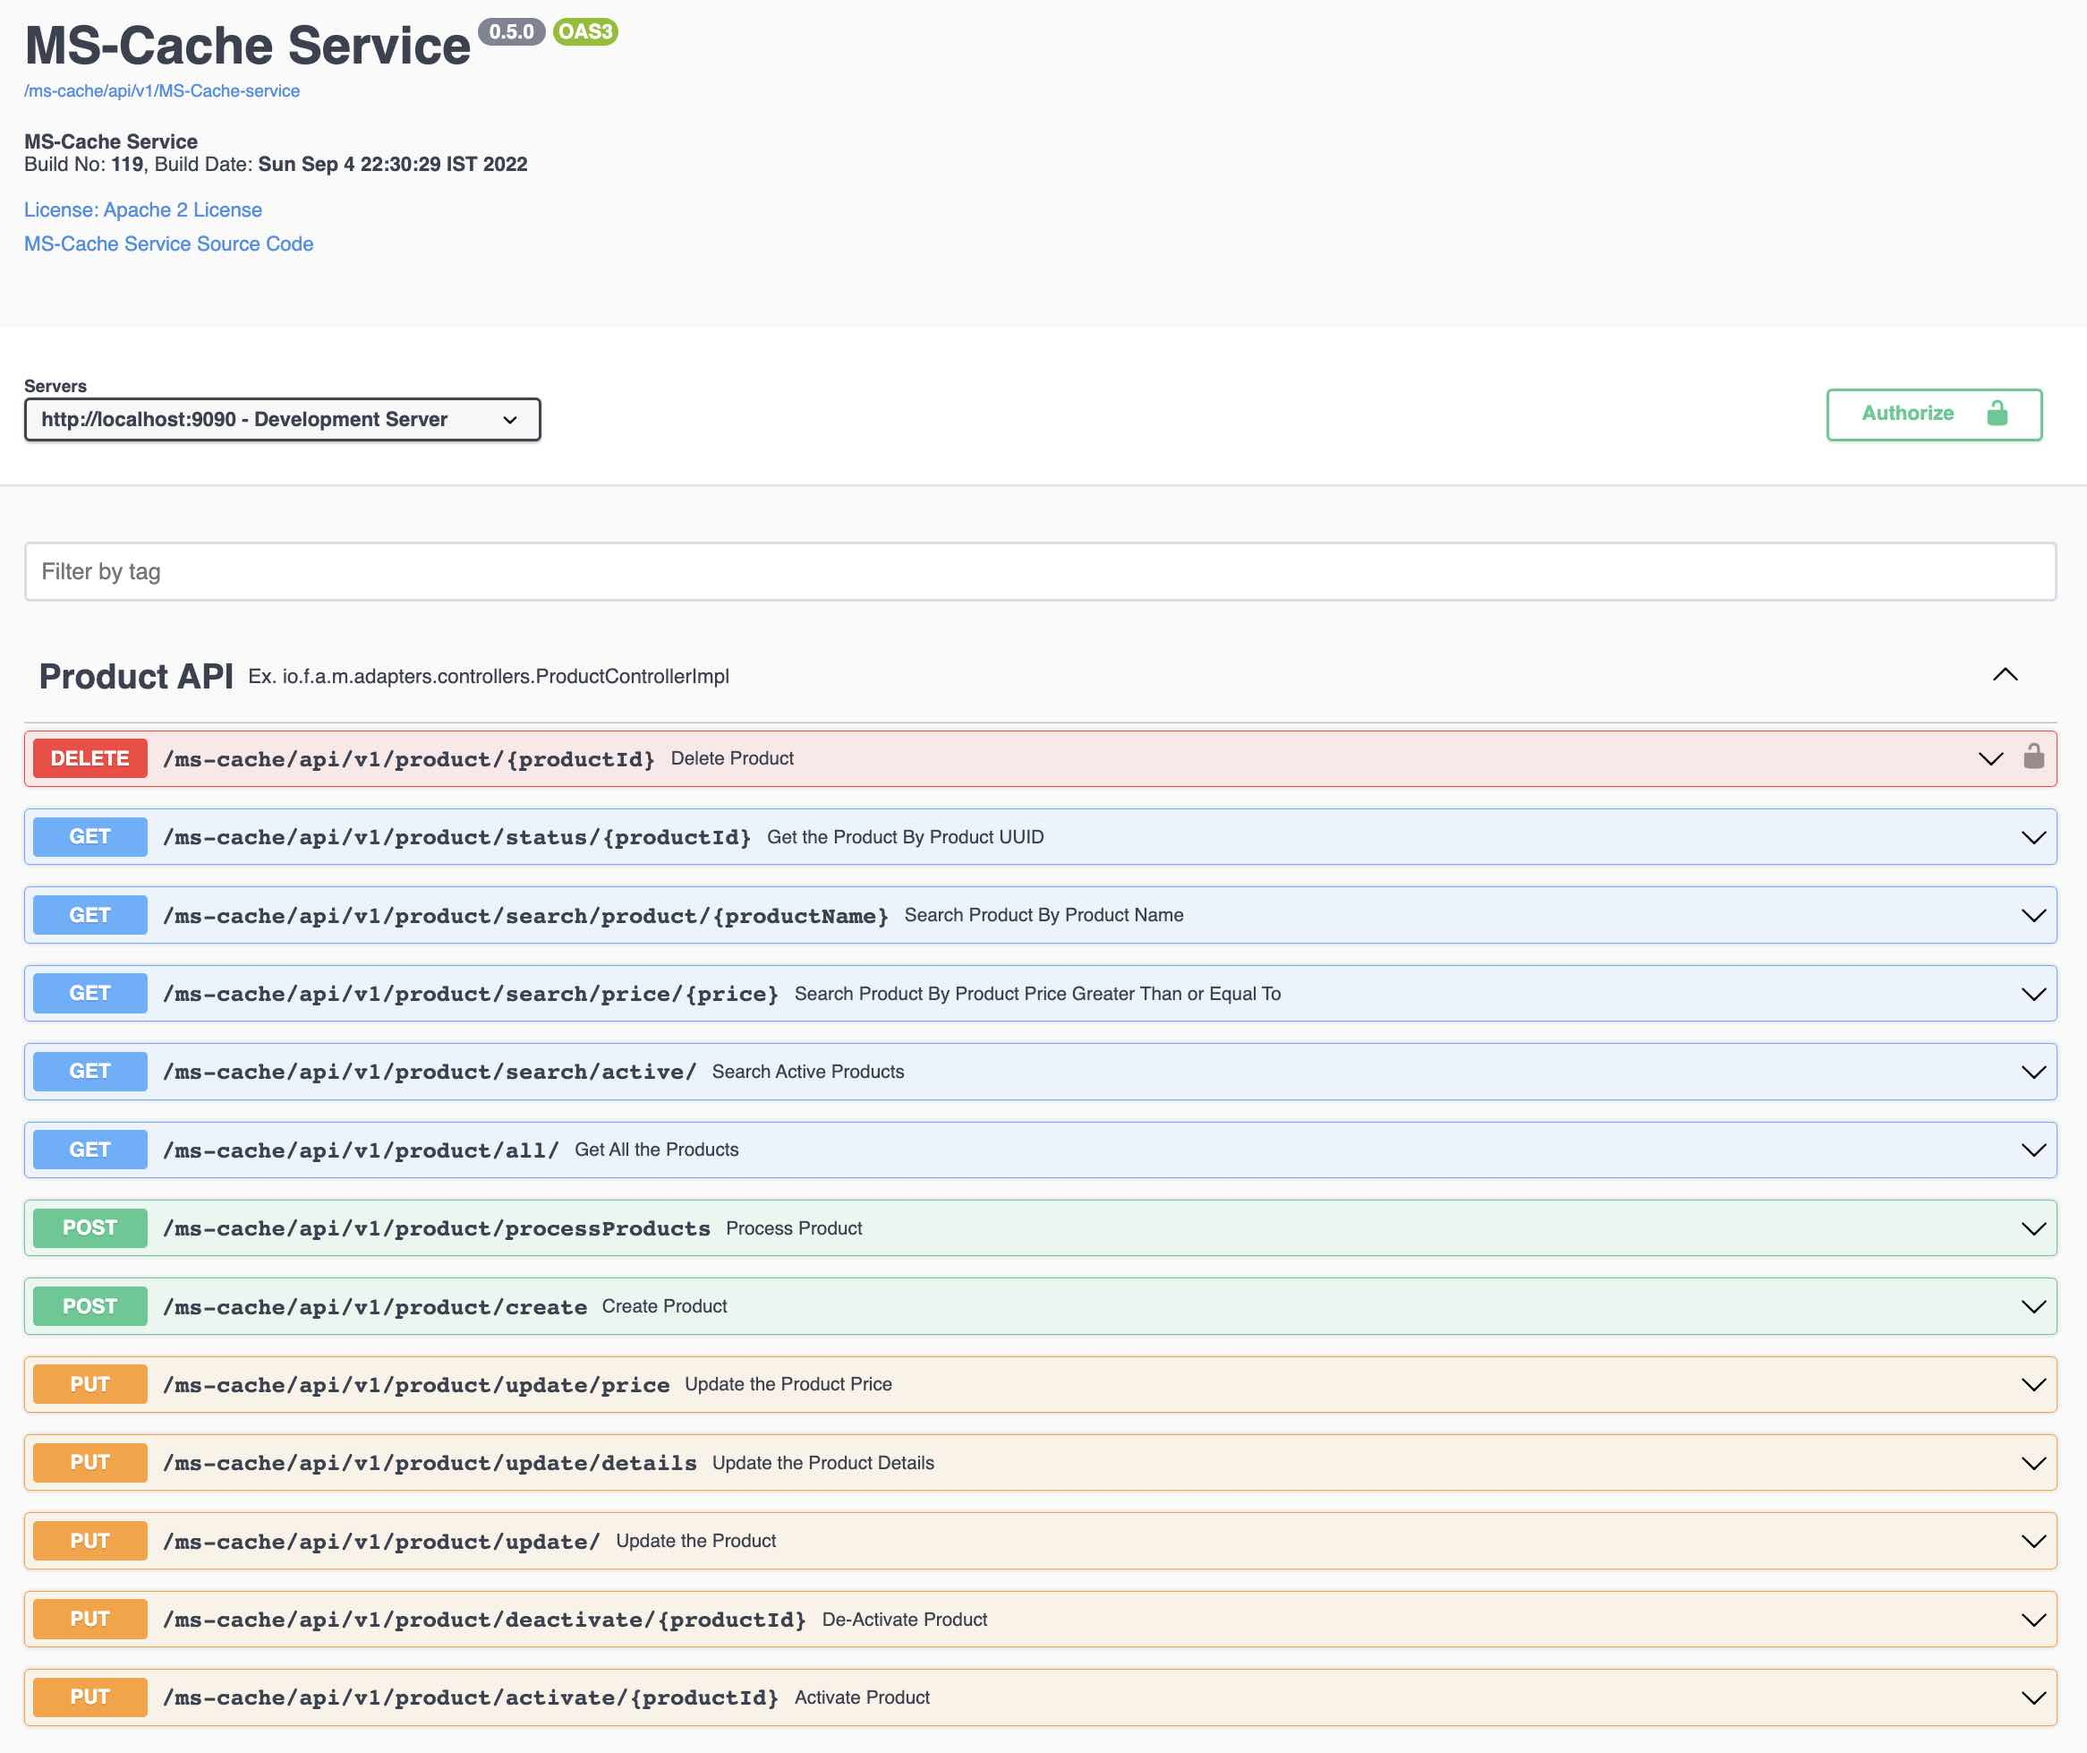
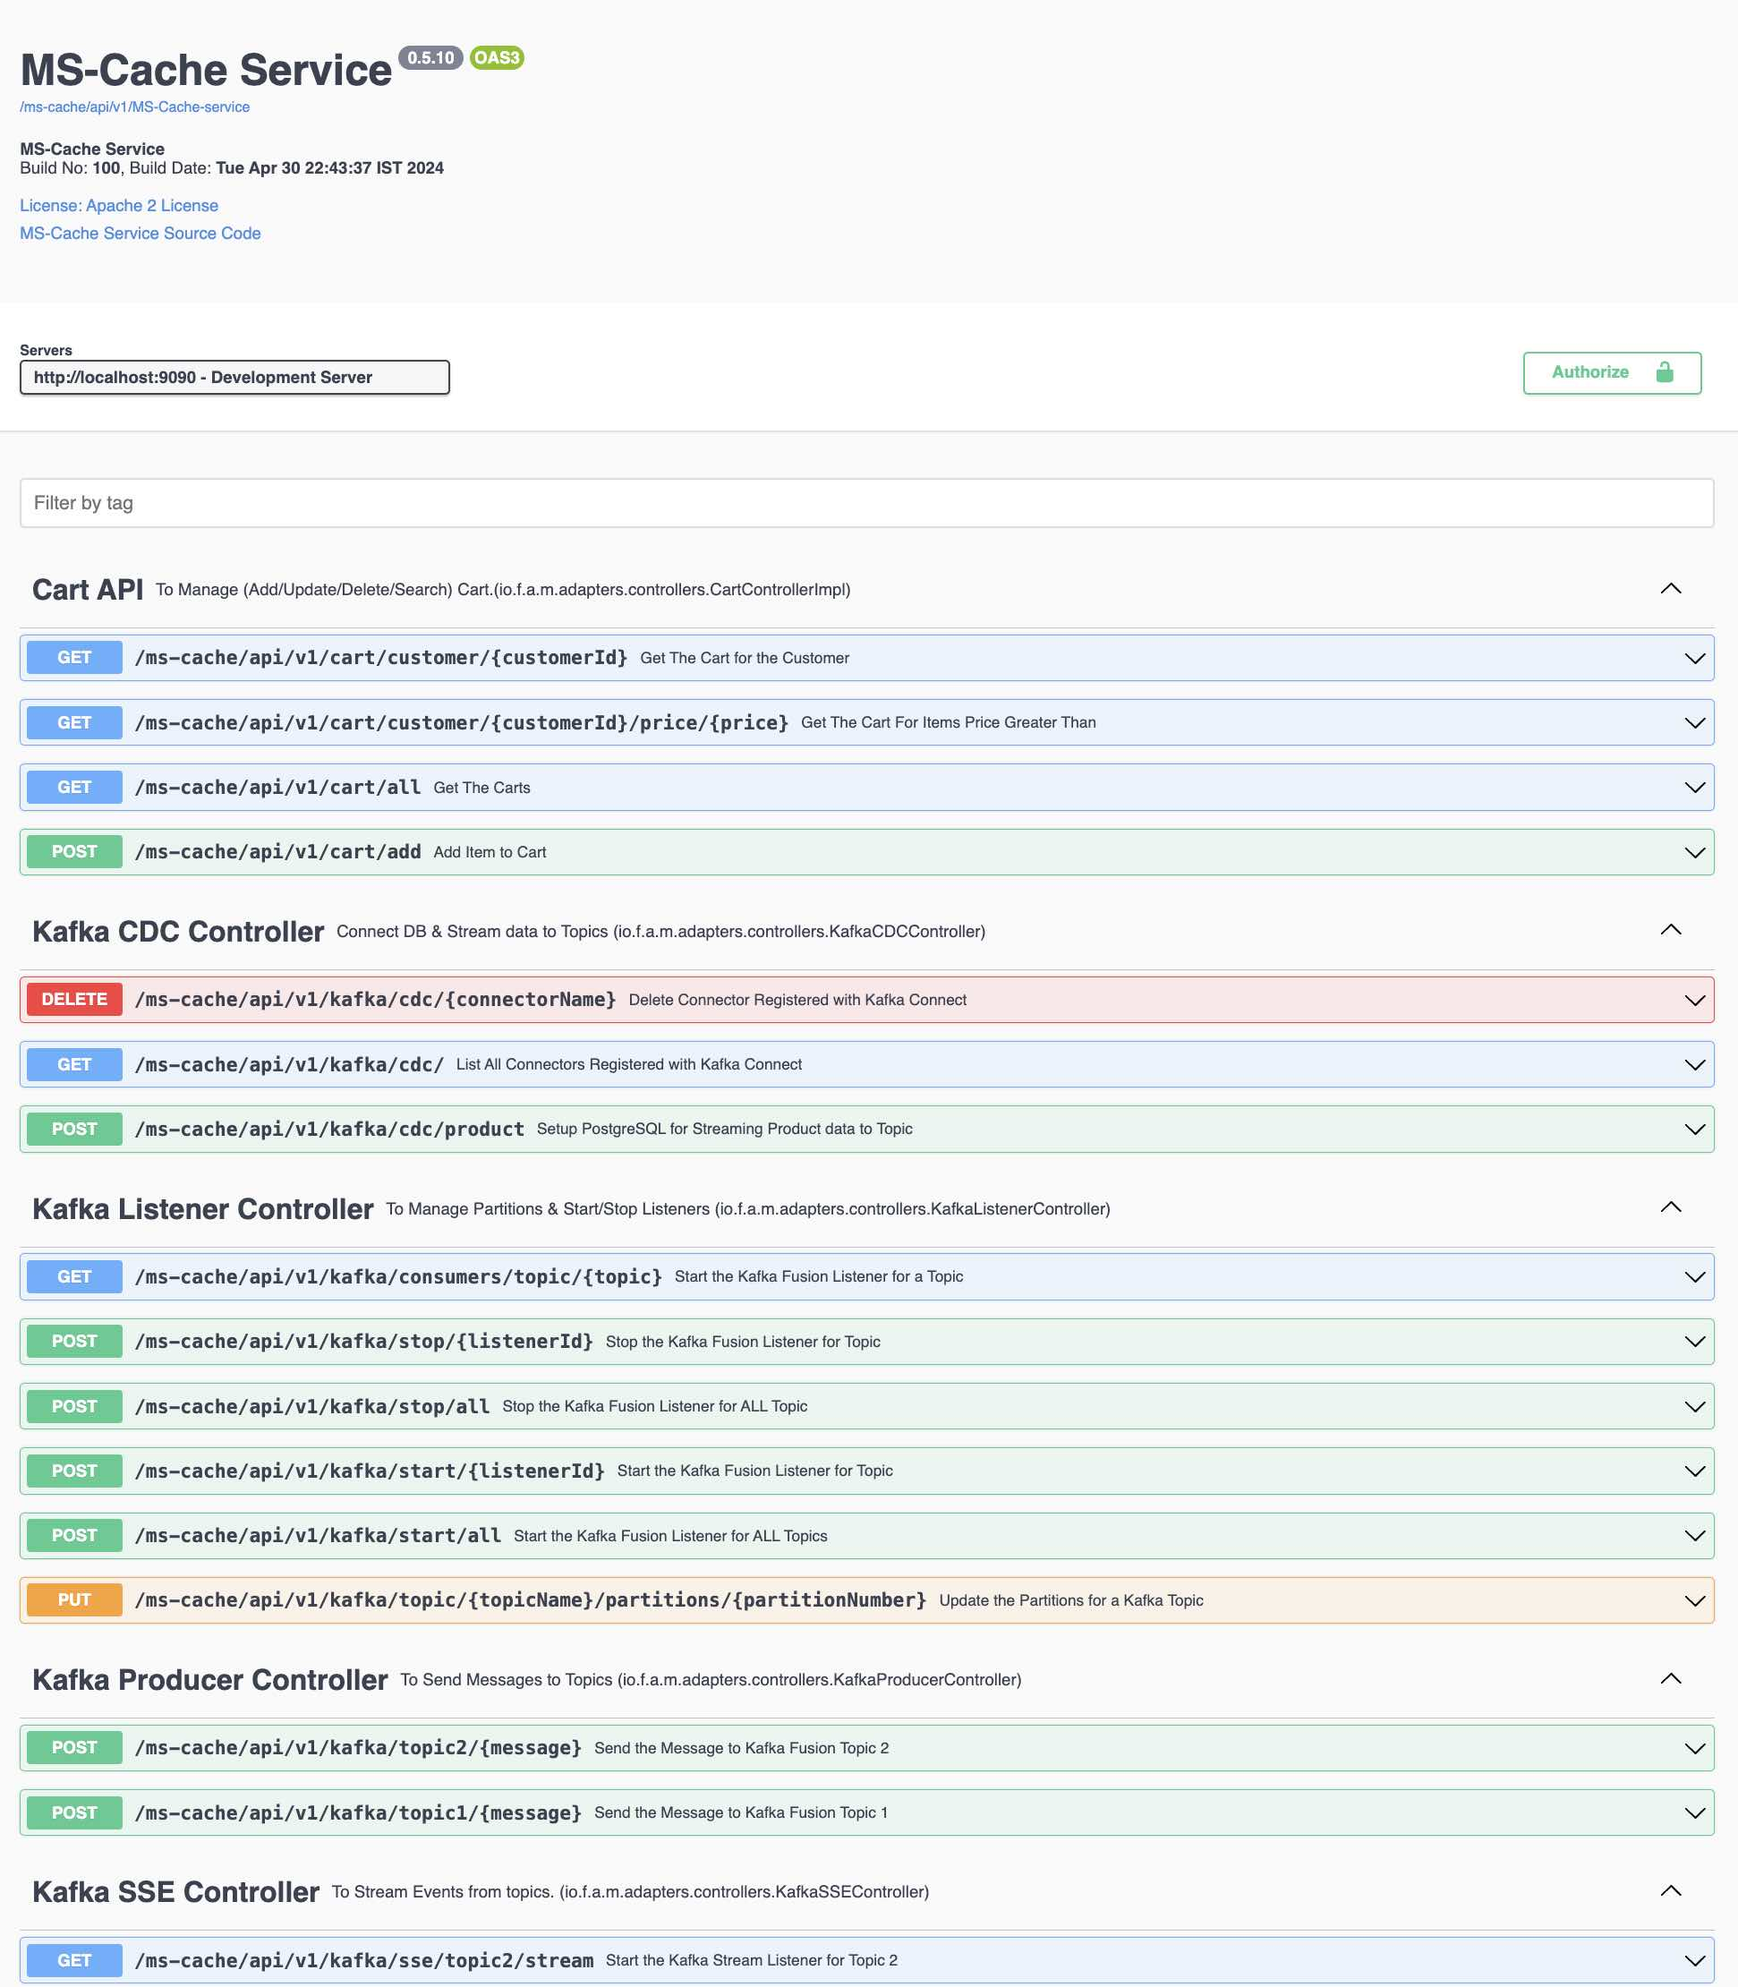
updated Kafka Examples

Changed region(s): [[0.0, 0.0, 0.9887, 1.0], [0.8651, 0.1558, 0.9887, 0.2492]]

diff --git a/src/main/java/io/fusion/air/microservice/adapters/controllers/CountryControllerImpl.java b/src/main/java/io/fusion/air/microservice/adapters/controllers/CountryControllerImpl.java
@@ -58,7 +58,7 @@ import static org.slf4j.LoggerFactory.getLogger;
 // "/ms-cache/api/v1"
 @RequestMapping("${service.api.path}/country")
 @RequestScope
-@Tag(name = "Country API", description = "To Manage (Add/Update/Delete/Search) Country.(io.f.a.m.adapters.controllers.CountrytControllerImpl)")
+@Tag(name = "Pagination Example: Country API", description = "To Manage (Add/Update/Delete/Search) Country.(io.f.a.m.adapters.controllers.CountrytControllerImpl)")
 public class CountryControllerImpl extends AbstractController {
 
 	// Set Logger -> Lookup will automatically determine the class name.

diff --git a/src/main/java/io/fusion/air/microservice/adapters/controllers/ReservationProcessControllerImpl.java b/src/main/java/io/fusion/air/microservice/adapters/controllers/ReservationProcessControllerImpl.java
@@ -54,7 +54,7 @@ import static org.slf4j.LoggerFactory.getLogger;
 // "/ms-cache/api/v1"
 @RequestMapping("${service.api.path}/reservation")
 @RequestScope
-@Tag(name = "Reservation API", description = "To Manage Hotel/Rental/Flight booking.")
+@Tag(name = "State Machine Example: Reservation API", description = "To Manage Hotel/Rental/Flight booking.")
 public class ReservationProcessControllerImpl extends AbstractController {
 
 	// Set Logger -> Lookup will automatically determine the class name.

diff --git a/README.md b/README.md
@@ -13,11 +13,13 @@
 5. Security using JWT Tokens (...adapters.security)
 6. Encrypting Sensitive Data using Encryption Algorithms (...security)
 7. JPA configurations for H2 and PostgreSQL (...server.config)
+8. Kafka Examples
 
 ### Pre-Requisites 
 
 1. Springboot 2.7.2
 2. Java 8, Java 17 (To run)
+3. Kafka 3.x (3.7.0)
 3. Java EE (javax.servlet.*, javax.persistence.*, javax.validation.*)
 4. Maven 3.8.6
 5. Git 2.31
@@ -25,13 +27,22 @@
 ### Microservice Cache / Kafka Template gives you a 
 
 1. SpringBoot App template with 
-2. Open API 3 Ex, 
-3. Spring Actuator, 
-4. Spring Sleuth and 
-5. Redis Cache Implementation with 
-6. H2 In Memory Database
-7. POM File with (SpringBoot) Fat and Thin (Maven) jar file creation and 
-8. Dockerfile for containerisation.
+2. Kafka Pub/Sub Examples
+3. Kafka Connect Examples
+4. Kafka Streams Examples
+5. Kafka Global Table Example 
+6. Spring State Machine Examples (Reservation API)
+7. Spring Pagination Example (Country API)
+8. CRUD Examples (Product API)
+9. SOLID Design Pattern Examples 
+10. JWT Tokens Example (Secured Payments API )
+11. Spring Profiles works with H2 DB on Dev and PostgreSQL in Staging / Prod mode 
+12. H2 In Memory Database & PostgreSQL Database Support 
+13. Open API 3 Ex, 
+14. Spring Actuator, 
+15. Spring Sleuth and 
+16. POM File with (SpringBoot) Fat and Thin (Maven) jar file creation and 
+17. Dockerfile for containerisation.
 
 ## 1. Setting up the Template
 
@@ -62,8 +73,9 @@ Without generated application.properties file the service will NOT be running. T
 ###  Step 1.3 - Run
 
 #### 1.3.1 Start the Service
-1. run OR ./run (Runs in Linux or Mac OS)
-2. mvn spring-boot:run (All Platforms)
+1. run OR ./run (Runs in Linux or Mac OS, 
+2. run prod (to use PostgreSQL DB)
+3. mvn spring-boot:run (All Platforms)
 
 #### 1.3.2 Test the Service 
 1. test OR ./test (Runs in Linux or Mac OS)
@@ -75,155 +87,66 @@ Without generated application.properties file the service will NOT be running. T
 #### MS Cache Swagger UI Docs for Testing
 ![Swagger Docs](https://raw.githubusercontent.com/arafkarsh/ms-springboot-272-java-8/master/diagrams/MS-Cache-Swagger-UI.jpg)
 
-### Step 1.4 - Testing the APIs Using Swagger API Docs or Postman
+## 2. Kafka Setup 
 
-To test the APIs (in secure mode - you will see a lock icon in the Swagger Docs). These test tokens are generated
-based on the flag server.token.test=true in the application.properties file. (Change the app.props.tmpl if you want to
-change in the build process.) In the Production environment, this flag should be false. These tokens can be generated only in
-an Auth Service. All the services need not generate these tokens unless for the developers to test it out.
-In a real world scenario, disable (Comment out the function generateTestToken() from the code  java file 
-ServiceEventListener.java in the package documentation io.fusion.air.microservice.server.service)  this feature for 
-production environment. 
+Install the latest version of Kafka. This version is tested with Kafka 3.7.0
 
-#### Step 1.4.1: Copy the Auth Token
-![Authorize Request](https://raw.githubusercontent.com/arafkarsh/ms-springboot-272-java-8/master/diagrams/ms-cache-with-Test-Tokens.jpg)
+1. change the envkafka.sh in the kafka-scripts folder to set the Kafka Path
 
-#### Step 1.4.2: Click on the Authorize Button (Top Left the Swagger UI)
+### 2.1 Start Kafka
 
-![Authorize Request](https://raw.githubusercontent.com/arafkarsh/ms-springboot-272-java-8/master/diagrams/ms-cache-with-Test-Tokens-2.jpg)
+1. start Zookeeper Server $ kafka-scripts/start-zc.sh
+2. start Kafka Broker $ kafka-scripts/start-ka.sh
+3. start Kafka Connect $ kafka-scripts/start-kc.sh
 
-#### Step 1.4.3: Enter the Token and Click Authorize
+### 2.2 Start the Server 
 
-![Authorize Request](https://raw.githubusercontent.com/arafkarsh/ms-springboot-272-java-8/master/diagrams/ms-cache-with-Test-Tokens-3.jpg)
+1. run (to test with H2 In-Memory Database)
+2. run prod (to test with PostgreSQL Database) Check the application-prod.properties for PostgreSQL Config
 
-### Step 1.5 -  Import Swagger API Docs Into Postman
+### 2.3 Testing Kafka Examples
+<todo>
 
-#### Step 1.5.1: Swagger Open API 3.0 Docs JSON Format
-![Swagger JSON](https://raw.githubusercontent.com/arafkarsh/ms-springboot-272-java-8/master/diagrams/Import-API-into-Postman-0.jpg)
+## 3. State Machine Example
+<todo>
 
-#### Step 1.5.2: Import Into Postman - Set the Link
-![Postman Import](https://raw.githubusercontent.com/arafkarsh/ms-springboot-272-java-8/master/diagrams/Import-API-Into-Postman-1.jpg)
+## 4. CRUD Examples
 
-#### Step 1.5.3: Import Into Postman - Confirm
-![Postman Import](https://raw.githubusercontent.com/arafkarsh/ms-springboot-272-java-8/master/diagrams/Import-API-into-Postman-2.jpg)
+Check the CRUD_Examples.md
 
-## 2. CRUD Operations Demo & Error Handling
+## 5. Docker Container Setup
 
-### 2.1 CRUD Operations 
-
-#### 2.1.1 GET Query Execution and Fallback Data
-![Crud Get](https://raw.githubusercontent.com/arafkarsh/ms-springboot-272-java-8/master/diagrams/crud/crud-1-get-fallback.jpg)
-
-#### 2.1.2 POST Create Data - Product 1
-![Crud Post-1](https://raw.githubusercontent.com/arafkarsh/ms-springboot-272-java-8/master/diagrams/crud/crud-2-post-prod-1-A.jpg)
-
-#### 2.1.3 POST Create Data - Product 1 : Result
-![Crud Post-2](https://raw.githubusercontent.com/arafkarsh/ms-springboot-272-java-8/master/diagrams/crud/crud-2-post-prod-1-B.jpg)
-
-#### 2.1.4 POST Create Data - Product 2 
-![Crud Post-3](https://raw.githubusercontent.com/arafkarsh/ms-springboot-272-java-8/master/diagrams/crud/crud-3-post-prod-2.jpg)
-
-#### 2.1.5 POST Create Data - Product 3
-![Crud Post-4](https://raw.githubusercontent.com/arafkarsh/ms-springboot-272-java-8/master/diagrams/crud/crud-4-post-prod-3.jpg)
-
-#### 2.1.6 GET All the Data (Created in Steps 2.2 - 2.5)
-![Crud Get-6](https://raw.githubusercontent.com/arafkarsh/ms-springboot-272-java-8/master/diagrams/crud/crud-5-get-from-db.jpg)
-
-#### 2.1.7 GET Single Record
-![Crud Get-7](https://raw.githubusercontent.com/arafkarsh/ms-springboot-272-java-8/master/diagrams/crud/crud-6-get-from-db.jpg)
-
-#### 2.1.8 PUT Update the Product Price
-![Crud Get-8](https://raw.githubusercontent.com/arafkarsh/ms-springboot-272-java-8/master/diagrams/crud/crud-7-put-update-price.jpg)
-
-#### 2.1.9 PUT Update the Product - DeActivate the Product > Set isActive Flag = False
-![Crud Get-9](https://raw.githubusercontent.com/arafkarsh/ms-springboot-272-java-8/master/diagrams/crud/crud-8-put-deactivate.jpg)
-
-#### 2.1.10 State of the Records after Inserts and Updates
-![Crud Get-10](https://raw.githubusercontent.com/arafkarsh/ms-springboot-272-java-8/master/diagrams/crud/crud-9-db-records.jpg)
-
-### 2.2 Error Handling
-
-#### 2.2.1 Error Handling - Invalid Input
-![Error-1](https://raw.githubusercontent.com/arafkarsh/ms-springboot-272-java-8/master/diagrams/crud/crud-error-1-post-invalid-input-A.jpg)
-
-#### 2.2.2 Error Handling - Invalid Input - Result
-![Error-2](https://raw.githubusercontent.com/arafkarsh/ms-springboot-272-java-8/master/diagrams/crud/crud-error-1-post-invalid-input-B.jpg)
-
-#### 2.2.3 Error Handling - Invalid Input - Field Validations
-![Error-3](https://raw.githubusercontent.com/arafkarsh/ms-springboot-272-java-8/master/diagrams/crud/crud-error-2-post-invalid-input-A.jpg)
-
-#### 2.2.4 Error Handling - Invalid Input - Field Validations - Result
-![Error-4](https://raw.githubusercontent.com/arafkarsh/ms-springboot-272-java-8/master/diagrams/crud/crud-error-2-post-invalid-input-B.jpg)
-
-#### 2.2.5 Error Handling - Version Mismatch based o JPA @Version Annotation
-![Error-5](https://raw.githubusercontent.com/arafkarsh/ms-springboot-272-java-8/master/diagrams/crud/crud-error-3-post-Version-Mismatch-B.jpg)
-
-
-### 2.3 Log Management 
-
-#### 2.3.1 Log Success Messages
-![Log-1](https://raw.githubusercontent.com/arafkarsh/ms-springboot-272-java-8/master/diagrams/log/Log-Messages-1.jpg)
-
-#### 2.3.2 Log Failure Messages
-![Log-2](https://raw.githubusercontent.com/arafkarsh/ms-springboot-272-java-8/master/diagrams/log/Log-Messages-2.jpg)
-
-## 3. Configure the Template: Setup Org, Service, & Container Name, Versions, API Path in app.props.tmpl
-
-1. git clone https://github.com/arafkarsh/ms-springboot-272-java-8.git
-2. cd ms-springboot-272-java-8
-
-Update the Properties Template
-
-1. Update the Org Name in src/main/resources/app.props.tmpl file (service.org)
-2. Update the Microservice name in src/main/resources/app.props.tmpl file (service.name)
-3. Update the API Version in src/main/resources/app.props.tmpl file (service.api.version)
-4. Update the API Name in src/main/resources/app.props.tmpl file (service.api.name)
-5. Update the Container Name in src/main/resources/app.props.tmpl file (service.container)
-6. Update the Server Version src/main/resources/app.props.tmpl file (server.version)
-   Pom File
-   <version>0.4.0</version>
-   app.props.tmpl
-   Microservice Server Properties
-   server.version=0.4.0
-
-Sample Property File Template
-![Property File](https://raw.githubusercontent.com/arafkarsh/ms-springboot-272-java-8/master/diagrams/MS-Property-File.jpg)
-
-When you change the version in POM.xml, update that info in src/main/resources/app.props.tmpl - server.version property also.
-
-## 4. Docker Container Setup
-
-### Step 4.1 - Verify Container Name and Org Name
+### Step 5.1 - Verify Container Name and Org Name
 
 1. Verify the Org Name in src/main/resources/app.props.tmpl file (service.org)
 2. Verify the container name in src/main/resources/app.props.tmpl file (service.container)
 3. Verify the microservice name in src/main/resources/app.props.tmpl file (service.api.name)
 
-### Step 4.2 - Build the image
+### Step 5.2 - Build the image
 
 1. build (Build the Container)
 2. scan (Scan the container vulnerabilities)
 
-### Step 4.3 - Test the image
+### Step 5.3 - Test the image
 
 1. start (Start the Container)
 2. logs (to view the container logs) - Wait for the Container to Startup
 3. Check the URL in a Browser
 
-### Step 4.4 - Push the image to Container Cloud Repository
+### Step 5.4 - Push the image to Container Cloud Repository
 
 Update the Org Name in src/main/resources/app.props.tmpl file (service.org)
 Setup the Docker Hub or any other Container Registry
 
 1. push (Push the Container to Docker Hub)
 
-### Step 4.5 Other Commands
+### Step 5.5 Other Commands
 
 1. stop (Stop the Container)
 2. stats (show container stats)
 
 
-(C) Copyright 2021-23 : Apache 2 License : Author: Araf Karsh Hamid
+(C) Copyright 2021-24 : Apache 2 License : Author: Araf Karsh Hamid
 
 <pre> 
  * Licensed under the Apache License, Version 2.0 (the "License");
